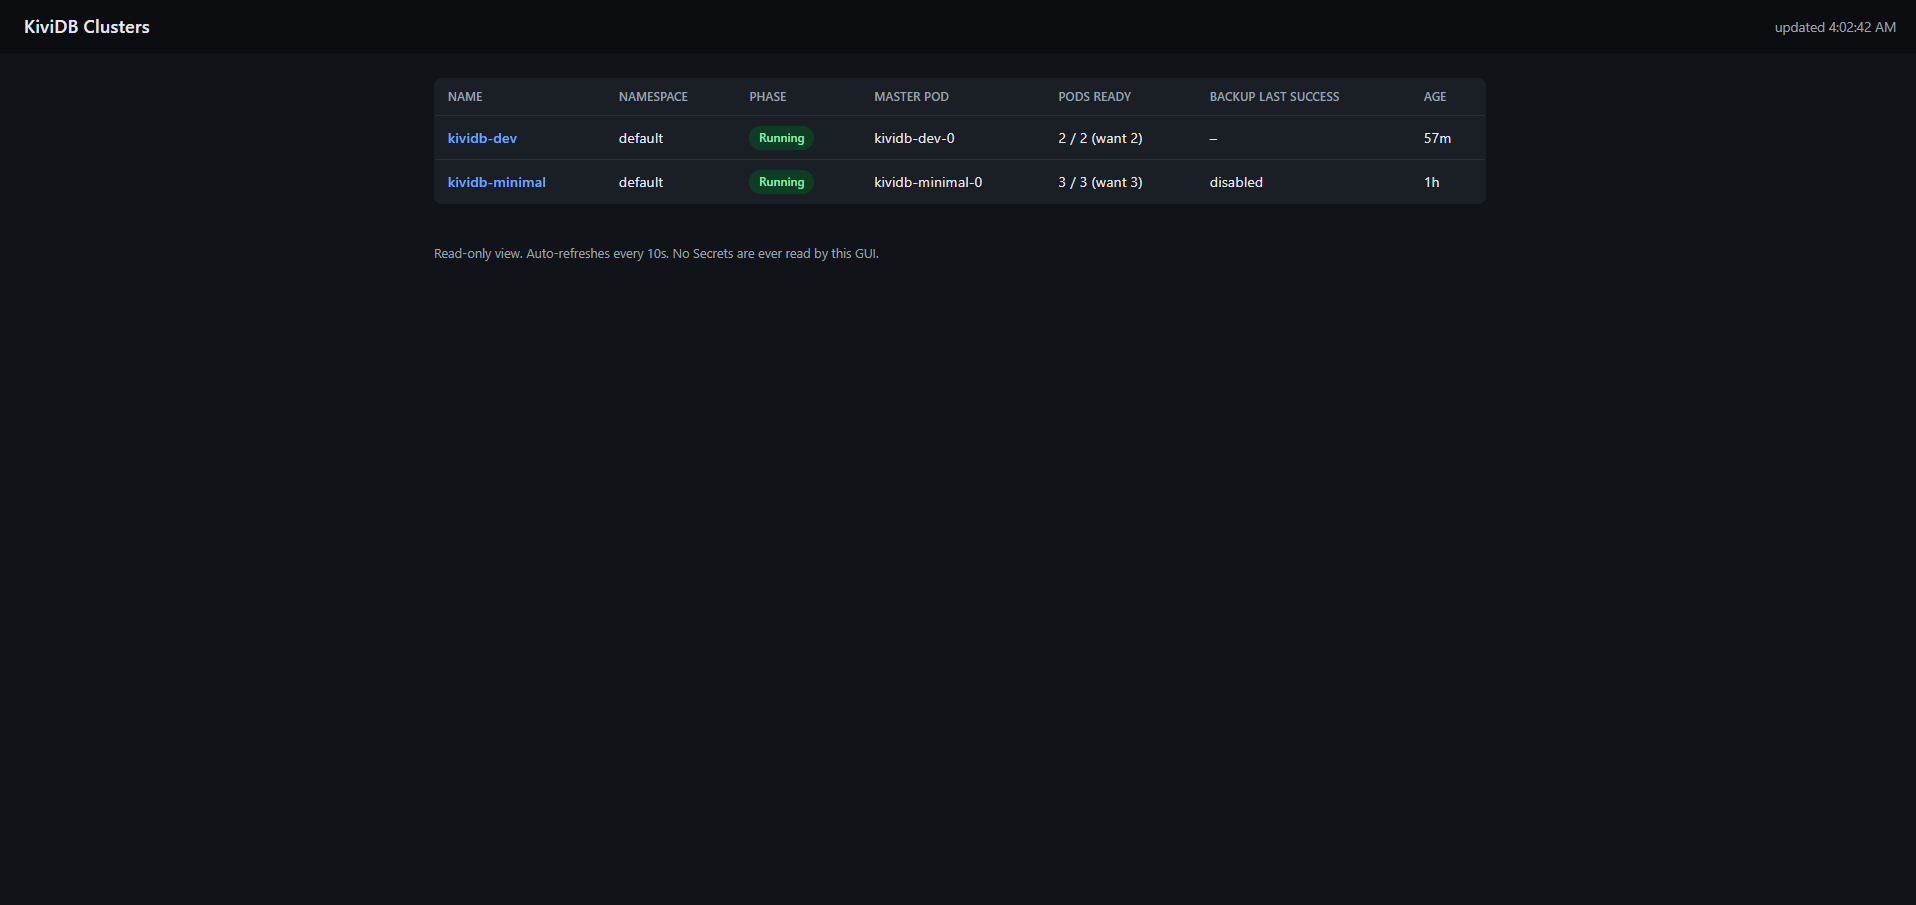
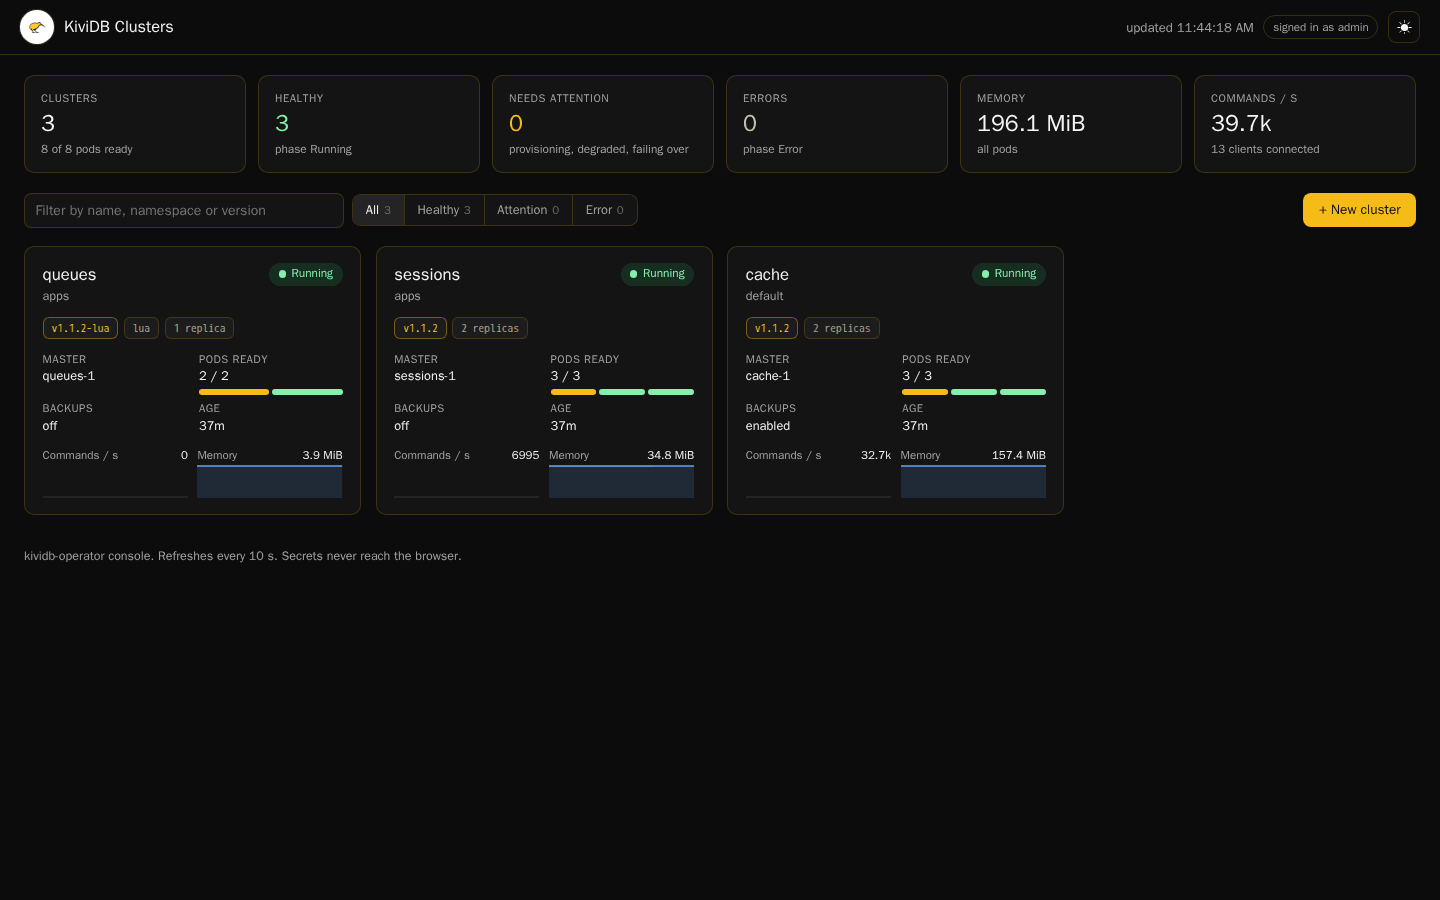
docs/GUI.md: screenshots of the new dashboard, cluster page, metrics, form and phone layout

diff --git a/docs/GUI.md b/docs/GUI.md
@@ -1,7 +1,7 @@
 # kividb-operator GUI
 
 <p align="center">
-  <img src="../assets/gui.png" alt="kividb-operator GUI dashboard listing two KividbClusters">
+  <img src="../assets/gui.png" alt="kividb-operator GUI dashboard: summary tiles and a card per KividbCluster">
 </p>
 
 A management web dashboard for `KividbCluster` objects. It is a single
@@ -19,6 +19,10 @@ through the API.
 Light and dark themes (it follows the system until you pick one) and a
 layout that works on a phone. Every page refreshes every 10 s.
 
+<p align="center">
+  <img src="../assets/gui-mobile.png" alt="The dashboard on a phone" width="260">
+</p>
+
 ### Dashboard (`/`)
 
 - **Summary tiles**: how many clusters, how many are healthy (`Running`),
@@ -35,6 +39,10 @@ listing the dashboard is still one `List` of `KividbCluster`s.
 
 ### Cluster (`/clusters/{namespace}/{name}`)
 
+<p align="center">
+  <img src="../assets/gui-cluster.png" alt="A cluster's page: topology of the master and its replicas, pods, spec and services" width="720">
+</p>
+
 - **Actions**: add or remove a replica, promote a replica, take a snapshot,
   a rolling restart, delete. Each asks first, in a dialog; deleting asks for
   the cluster's name.
@@ -49,6 +57,10 @@ listing the dashboard is still one `List` of `KividbCluster`s.
   set (chart: `gui.metrics.persistence.enabled=true`, plus
   `gui.metrics.persistence.storageClass` on clusters without a default
   StorageClass). No Prometheus needed.
+<p align="center">
+  <img src="../assets/gui-metrics.png" alt="Metrics: commands per second, memory, clients and replication lag per pod" width="720">
+</p>
+
 - **Logs**: either container of any pod, the last 200 to 2000 lines, with
   follow mode, highlighting, and errors and warnings in colour.
 - **Console**: runs a command on a pod through its agent, as the agent's
@@ -66,6 +78,10 @@ replicas. Writes that reach the old master in the moment between those two
 steps are not carried over.
 
 ### New cluster (`/new`)
+
+<p align="center">
+  <img src="../assets/gui-create.png" alt="The new-cluster form beside the manifest the API server's dry run returns" width="720">
+</p>
 
 A form for a `KividbCluster`: name and namespace, the build (standard, lua,
 tls or full), replicas, storage, memory and CPU per pod, storage class,
